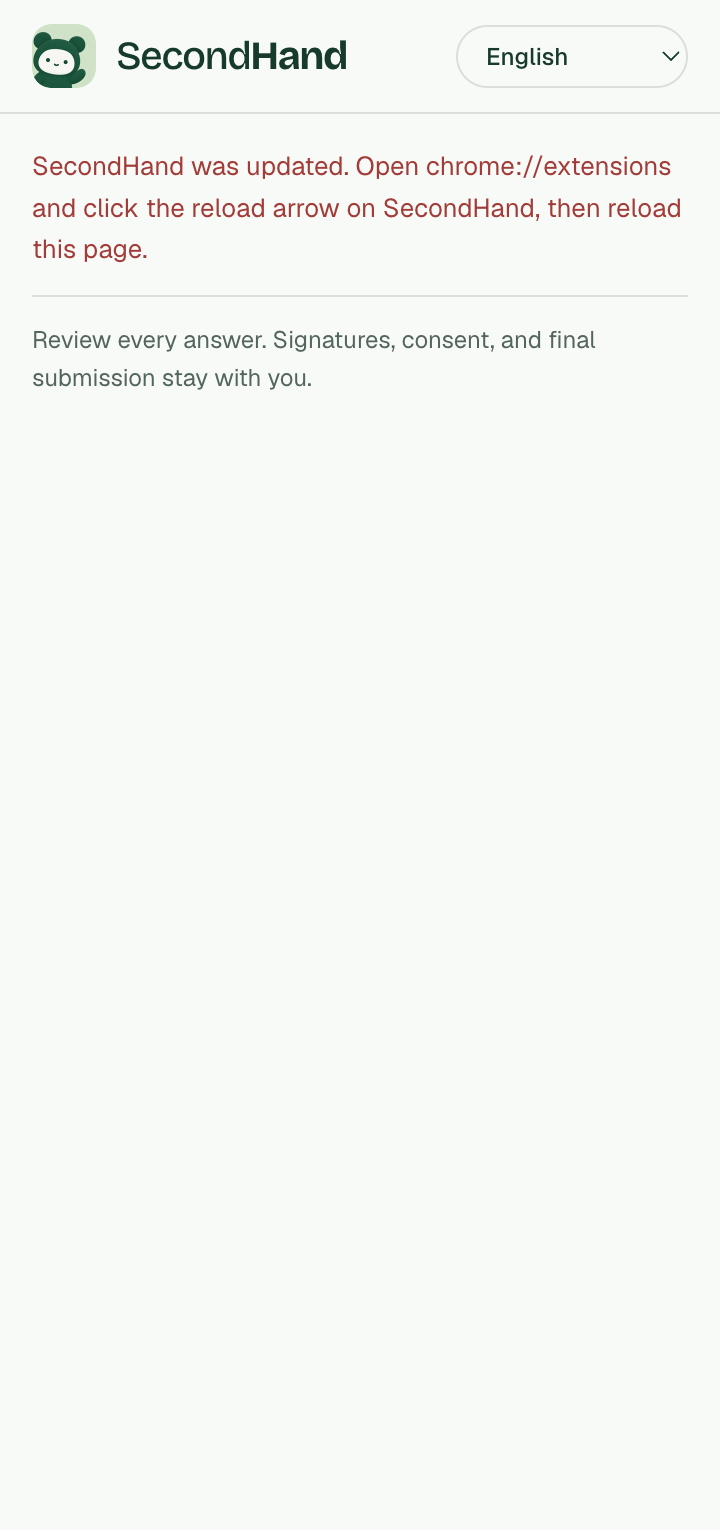
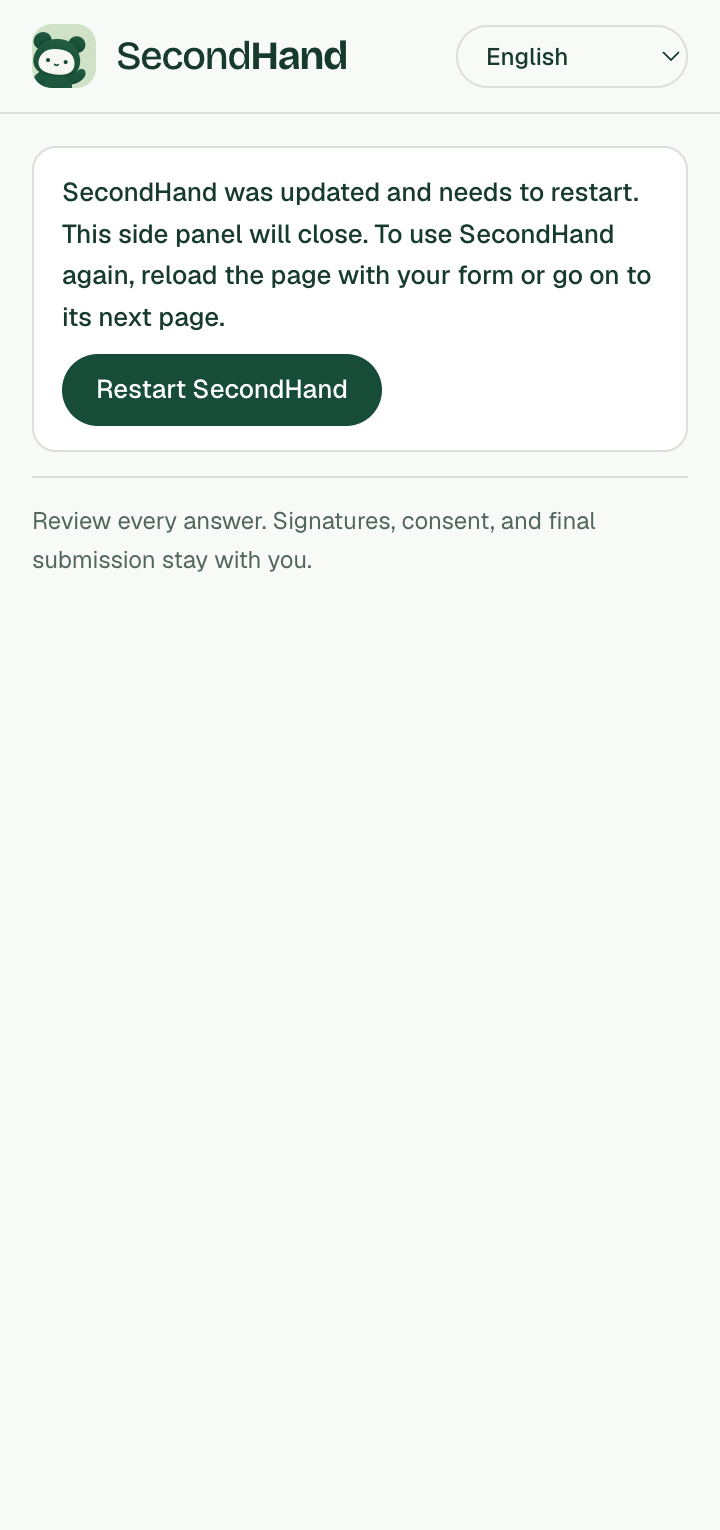
feat: give the update notice plain words and a Restart button
When the worker Chrome still runs is older than the pages, both surfaces
told people to open chrome://extensions and click the reload arrow, in red
in the side panel and in 11px print on the card. Now the side panel shows
a notice like the app's own, with a Restart SecondHand button, and the
card shows the logo, "SecondHand was updated." and Restart. Either button
reloads the extension, which is what the arrow did.

A card left on a page after SecondHand reloaded says "Reload this page to
use SecondHand. That clears what you typed here.", or only the first
sentence when its frame can't hold both. A worker that stops answering
while the side panel is open now leaves the same notice instead of a red
line that the next refresh replaced.

diff --git a/extension/strings.js b/extension/strings.js
@@ -45,11 +45,18 @@
     'widget.offer': 'View in English',
     'widget.offerTitle': 'Show this page’s questions in English in SecondHand’s side panel',
     'widget.languageCheckFailed': 'SecondHand couldn’t check this page’s language.',
+    'widget.outdated': 'SecondHand was updated.',
+    'widget.restart': 'Restart',
+    'widget.restartTitle': 'Restart SecondHand to finish its update. Then reload this page.',
 
-    // The widget shows these steps in the 46px frame it already has: in every language they must fit three lines of its 272px.
-    'panel.outdated': 'SecondHand was updated. Open chrome://extensions and click the reload arrow on SecondHand, then reload this page.',
+    // Pages newer than the worker Chrome still runs. The widget can't ask an outdated worker for a larger frame,
+    // so it shows widget.outdated beside its Restart button; the side panel has room for all of this.
+    'panel.outdated': 'SecondHand was updated and needs to restart. This side panel will close. To use SecondHand again, reload the page with your form or go on to its next page.',
     'panel.updated': 'SecondHand was updated to match the app on this computer.',
-    'panel.reloadPage': 'SecondHand was updated. Reload this page to use it.',
+    // A widget left on a page when SecondHand reloaded. It shows the short line when its frame can't hold the long one.
+    'panel.reloadPage': 'Reload this page to use SecondHand. That clears what you typed here.',
+    'panel.reloadPageShort': 'Reload this page to use SecondHand.',
+    'panel.restart': 'Restart SecondHand',
     'panel.updateFailed': 'SecondHand couldn’t update its extension files. In the SecondHand app, open Chrome extension and click Refresh extension files. Then open chrome://extensions and click the reload arrow on SecondHand.',
     'panel.updateElsewhere': 'Chrome is running a copy of SecondHand that the app doesn’t update. In the SecondHand app, open Chrome extension and click Copy folder path. Then, at chrome://extensions, remove this copy, choose Load unpacked, and pick that folder.',
     'panel.assistantUnavailable': 'The assistant is unavailable. Reload the extension and this page.',
@@ -368,10 +375,15 @@
     'widget.offer': 'Ver en español',
     'widget.offerTitle': 'Mostrar las preguntas de esta página en español en el panel lateral de SecondHand',
     'widget.languageCheckFailed': 'SecondHand no pudo comprobar el idioma de esta página.',
+    'widget.outdated': 'SecondHand se actualizó.',
+    'widget.restart': 'Reiniciar',
+    'widget.restartTitle': 'Reinicie SecondHand para terminar su actualización. Luego recargue esta página.',
 
-    'panel.outdated': 'SecondHand se actualizó. Abra chrome://extensions, haga clic en la flecha de recargar de SecondHand y recargue esta página.',
+    'panel.outdated': 'SecondHand se actualizó y necesita reiniciarse. Este panel lateral se cerrará. Para volver a usar SecondHand, recargue la página de su formulario o pase a la página siguiente.',
     'panel.updated': 'SecondHand se actualizó para coincidir con la aplicación de esta computadora.',
-    'panel.reloadPage': 'SecondHand se actualizó. Recargue esta página para usarlo.',
+    'panel.reloadPage': 'Recargue esta página para usar SecondHand. Eso borra lo que escribió aquí.',
+    'panel.reloadPageShort': 'Recargue esta página para usar SecondHand.',
+    'panel.restart': 'Reiniciar SecondHand',
     'panel.updateFailed': 'SecondHand no pudo actualizar los archivos de su extensión. En la aplicación SecondHand, abra “Chrome extension” y haga clic en “Refresh extension files”. Luego abra chrome://extensions y haga clic en la flecha de recargar de SecondHand.',
     'panel.updateElsewhere': 'Chrome está usando una copia de SecondHand que la aplicación no actualiza. En la aplicación SecondHand, abra “Chrome extension” y haga clic en “Copy folder path”. Luego, en chrome://extensions, quite esta copia, elija “Cargar descomprimida” y seleccione esa carpeta.',
     'panel.assistantUnavailable': 'El asistente no está disponible. Recargue la extensión y esta página.',
@@ -687,10 +699,15 @@
     'widget.offer': 'Xem bằng tiếng Việt',
     'widget.offerTitle': 'Hiển thị các câu hỏi của trang này bằng tiếng Việt trong bảng bên của SecondHand',
     'widget.languageCheckFailed': 'SecondHand không kiểm tra được ngôn ngữ của trang này.',
+    'widget.outdated': 'SecondHand đã được cập nhật.',
+    'widget.restart': 'Khởi động lại',
+    'widget.restartTitle': 'Khởi động lại SecondHand để hoàn tất cập nhật. Sau đó hãy tải lại trang này.',
 
-    'panel.outdated': 'SecondHand đã được cập nhật. Hãy mở chrome://extensions, bấm mũi tên tải lại trên SecondHand, rồi tải lại trang này.',
+    'panel.outdated': 'SecondHand đã được cập nhật và cần khởi động lại. Bảng bên này sẽ đóng. Để dùng lại SecondHand, hãy tải lại trang có biểu mẫu của bạn hoặc chuyển sang trang kế tiếp.',
     'panel.updated': 'SecondHand đã được cập nhật cho khớp với ứng dụng trên máy này.',
-    'panel.reloadPage': 'SecondHand đã được cập nhật. Hãy tải lại trang này để dùng.',
+    'panel.reloadPage': 'Hãy tải lại trang này để dùng SecondHand. Việc đó sẽ xóa những gì bạn đã nhập ở đây.',
+    'panel.reloadPageShort': 'Hãy tải lại trang này để dùng SecondHand.',
+    'panel.restart': 'Khởi động lại SecondHand',
     'panel.updateFailed': 'SecondHand không thể cập nhật các tệp tiện ích của mình. Trong ứng dụng SecondHand, hãy mở “Chrome extension” và bấm “Refresh extension files”. Sau đó mở chrome://extensions và bấm mũi tên tải lại trên SecondHand.',
     'panel.updateElsewhere': 'Chrome đang chạy một bản SecondHand mà ứng dụng không cập nhật. Trong ứng dụng SecondHand, hãy mở “Chrome extension” và bấm “Copy folder path”. Sau đó, tại chrome://extensions, hãy xóa bản này, chọn “Tải tiện ích đã giải nén” rồi chọn thư mục đó.',
     'panel.assistantUnavailable': 'Trợ lý hiện không khả dụng. Hãy tải lại tiện ích và trang này.',
@@ -1007,10 +1024,15 @@
     'widget.offer': '以中文查看',
     'widget.offerTitle': '在 SecondHand 侧边栏中用中文显示此页面的问题',
     'widget.languageCheckFailed': 'SecondHand 无法检查此页面的语言。',
+    'widget.outdated': 'SecondHand 已更新。',
+    'widget.restart': '重新启动',
+    'widget.restartTitle': '重新启动 SecondHand 以完成更新，然后重新加载此页面。',
 
-    'panel.outdated': 'SecondHand 已更新。请打开 chrome://extensions，点击 SecondHand 上的重新加载箭头，然后重新加载此页面。',
+    'panel.outdated': 'SecondHand 已更新，需要重新启动。此侧边栏将会关闭。要继续使用 SecondHand，请重新加载表格所在的页面，或进入它的下一页。',
     'panel.updated': 'SecondHand 已更新，与本机上的应用保持一致。',
-    'panel.reloadPage': 'SecondHand 已更新。请重新加载此页面后使用。',
+    'panel.reloadPage': '请重新加载此页面以使用 SecondHand。这会清除您在此页面输入的内容。',
+    'panel.reloadPageShort': '请重新加载此页面以使用 SecondHand。',
+    'panel.restart': '重新启动 SecondHand',
     'panel.updateFailed': 'SecondHand 无法更新其扩展程序文件。请在 SecondHand 应用中打开“Chrome extension”，点击“Refresh extension files”。然后打开 chrome://extensions，点击 SecondHand 上的重新加载箭头。',
     'panel.updateElsewhere': 'Chrome 正在运行一份应用不会更新的 SecondHand 副本。请在 SecondHand 应用中打开“Chrome extension”，点击“Copy folder path”。然后在 chrome://extensions 中移除这份副本，选择“加载已解压的扩展程序”，再选择该文件夹。',
     'panel.assistantUnavailable': '助手不可用。请重新加载扩展程序和此页面。',
@@ -1327,10 +1349,15 @@
     'widget.offer': 'Voir en français',
     'widget.offerTitle': 'Afficher les questions de cette page en français dans le panneau latéral de SecondHand',
     'widget.languageCheckFailed': 'SecondHand n’a pas pu vérifier la langue de cette page.',
+    'widget.outdated': 'SecondHand a été mis à jour.',
+    'widget.restart': 'Redémarrer',
+    'widget.restartTitle': 'Redémarrez SecondHand pour terminer sa mise à jour. Rechargez ensuite cette page.',
 
-    'panel.outdated': 'SecondHand a été mis à jour. Ouvrez chrome://extensions, cliquez sur sa flèche de rechargement, puis rechargez cette page.',
+    'panel.outdated': 'SecondHand a été mis à jour et doit redémarrer. Ce panneau latéral va se fermer. Pour utiliser de nouveau SecondHand, rechargez la page de votre formulaire ou passez à sa page suivante.',
     'panel.updated': 'SecondHand a été mis à jour pour correspondre à l’application de cet ordinateur.',
-    'panel.reloadPage': 'SecondHand a été mis à jour. Rechargez cette page pour l’utiliser.',
+    'panel.reloadPage': 'Rechargez cette page pour utiliser SecondHand. Cela efface ce que vous avez saisi ici.',
+    'panel.reloadPageShort': 'Rechargez cette page pour utiliser SecondHand.',
+    'panel.restart': 'Redémarrer SecondHand',
     'panel.updateFailed': 'SecondHand n’a pas pu mettre à jour les fichiers de son extension. Dans l’application SecondHand, ouvrez « Chrome extension » et cliquez sur « Refresh extension files ». Ouvrez ensuite chrome://extensions et cliquez sur la flèche de rechargement de SecondHand.',
     'panel.updateElsewhere': 'Chrome utilise une copie de SecondHand que l’application ne met pas à jour. Dans l’application SecondHand, ouvrez « Chrome extension » et cliquez sur « Copy folder path ». Ensuite, dans chrome://extensions, supprimez cette copie, choisissez « Charger l’extension non empaquetée » et sélectionnez ce dossier.',
     'panel.assistantUnavailable': 'L’assistant n’est pas disponible. Rechargez l’extension et cette page.',
@@ -1647,10 +1674,15 @@
     'widget.offer': 'العرض بالعربية',
     'widget.offerTitle': 'عرض أسئلة هذه الصفحة بالعربية في اللوحة الجانبية لـ SecondHand',
     'widget.languageCheckFailed': 'لم يتمكن SecondHand من معرفة لغة هذه الصفحة.',
+    'widget.outdated': 'تم تحديث SecondHand.',
+    'widget.restart': 'إعادة التشغيل',
+    'widget.restartTitle': 'أعد تشغيل SecondHand لإكمال تحديثه، ثم أعد تحميل هذه الصفحة.',
 
-    'panel.outdated': 'تم تحديث SecondHand. افتح chrome://extensions وانقر على سهم إعادة التحميل في SecondHand، ثم أعد تحميل هذه الصفحة.',
+    'panel.outdated': 'تم تحديث SecondHand ويحتاج إلى إعادة التشغيل. ستُغلق هذه اللوحة الجانبية. لاستخدام SecondHand من جديد، أعد تحميل صفحة النموذج أو انتقل إلى صفحتها التالية.',
     'panel.updated': 'تم تحديث SecondHand ليطابق التطبيق على هذا الكمبيوتر.',
-    'panel.reloadPage': 'تم تحديث SecondHand. أعد تحميل هذه الصفحة لاستخدامه.',
+    'panel.reloadPage': 'أعد تحميل هذه الصفحة لاستخدام SecondHand. سيمسح ذلك ما كتبته هنا.',
+    'panel.reloadPageShort': 'أعد تحميل هذه الصفحة لاستخدام SecondHand.',
+    'panel.restart': 'إعادة تشغيل SecondHand',
     'panel.updateFailed': 'تعذّر على SecondHand تحديث ملفات إضافته. في تطبيق SecondHand، افتح “Chrome extension” وانقر على “Refresh extension files”. ثم افتح chrome://extensions وانقر على سهم إعادة التحميل في SecondHand.',
     'panel.updateElsewhere': 'يشغّل Chrome نسخة من SecondHand لا يحدّثها التطبيق. في تطبيق SecondHand، افتح “Chrome extension” وانقر على “Copy folder path”. ثم في chrome://extensions، أزل هذه النسخة واختر “تحميل الإضافة غير المضغوطة” وحدد ذلك المجلد.',
     'panel.assistantUnavailable': 'المساعد غير متاح. أعد تحميل الإضافة وهذه الصفحة.',

diff --git a/extension/panel.js b/extension/panel.js
@@ -23,7 +23,7 @@
   const keyedError = (key, params = {}) => Object.assign(new Error(strings.english(key, params)), { messageKey: key, messageParams: params });
   const trusted = callback => event => { if (event.isTrusted) return callback(event); };
   const outdatedError = (key = 'panel.outdated') => Object.assign(keyedError(key), { outdated: true });
-  const send = async payload => {
+  const ask = async payload => {
     let response;
     try { response = await chrome.runtime.sendMessage(payload); }
     catch (error) {
@@ -40,6 +40,12 @@
       throw keyedError('panel.assistantUnavailable');
     }
     return response.data;
+  };
+  // What a surface does the moment the worker turns out to be outdated; the side panel sets it.
+  let whenOutdated = () => {};
+  const send = async payload => {
+    try { return await ask(payload); }
+    catch (error) { if (error.outdated) whenOutdated(error); throw error; }
   };
   // An older worker that still answers is caught by its build.
   const checkBuild = async () => { if ((await send({ type: 'ui:ping' }))?.build !== BUILD) throw outdatedError(); };
@@ -92,7 +98,8 @@
     let outdated = false;
     // The reader hid the card: only the logo shows, until they click it or the page changes.
     let collapsed = false;
-    // What an outdated widget says: reload SecondHand, or reload this page after SecondHand updated itself.
+    // Why the widget is outdated: its worker is older than this page (panel.outdated), which Restart
+    // fixes, or SecondHand reloaded and left this frame behind (panel.reloadPage).
     let outdatedKey = 'panel.outdated';
     let ai = { note: null, reason: '' };
     let cursor = 0;
@@ -105,11 +112,11 @@
     // widget's own width and height (0 until it has measured itself), and whether it is only the logo.
     let frame = { line: false, width: 0, height: 0, pill: false };
     const AI_TIMEOUT_MS = 8000;
-    // An outdated worker keeps its reload steps on screen and is not polled again.
+    // An outdated worker keeps its notice on screen and is not polled again.
     const trouble = error => { if (error.outdated) { outdated = true; outdatedKey = error.messageKey; } return problem(error); };
 
     function statusText() {
-      if (outdated) return t(outdatedKey);
+      if (outdated) return t(outdatedKey === 'panel.reloadPage' ? 'panel.reloadPage' : 'widget.outdated');
       if (working) return t('widget.working');
       if (note) return words(note, 120);
       if (!result) return !site ? t('widget.iowaReady') : languageTrouble ? t('widget.languageCheckFailed') : t('widget.siteReady', { host: hostOf(site.origin) });
@@ -140,10 +147,12 @@
       // A locked app offers Unlock, and a closed one Open SecondHand, in Autofill's place.
       const locked = result?.state === 'locked';
       const closed = result?.state === 'offline';
-      $('stop').hidden = !autopilot;
-      $('autofill').hidden = autopilot || locked || closed;
-      $('unlock').hidden = autopilot || !locked;
-      $('open-app').hidden = autopilot || !closed;
+      $('stop').hidden = outdated || !autopilot;
+      $('autofill').hidden = outdated || autopilot || locked || closed;
+      $('unlock').hidden = outdated || autopilot || !locked;
+      $('open-app').hidden = outdated || autopilot || !closed;
+      $('restart').hidden = !outdated || outdatedKey === 'panel.reloadPage';
+      $('hide').hidden = outdated;
       $('autofill').disabled = working;
       // Answers still to give show as a link that finds each one in the form.
       const needYou = ['done', 'waiting'].includes(result?.state) ? fieldKeys(result.needYou) : [];
@@ -152,7 +161,7 @@
       $('widget-text').textContent = statusText();
       $('autofill').title = site ? t('widget.autofillSiteTitle') : t('widget.autofillIowaTitle');
       const details = [hasMessage(result) ? words(fromResult(result)) : '', ai.note ? words(ai.note) : '', ai.reason, fixedText(languageTrouble?.message, 160)];
-      $('widget-text').title = outdated ? t(outdatedKey) : fixedText(details.filter(Boolean).join(' '), 240);
+      $('widget-text').title = outdated ? statusText() : fixedText(details.filter(Boolean).join(' '), 240);
       // The status is always read to screen readers, and shown as a line whenever it says something the
       // buttons don't: on Iowa, what Autofill will do before it is clicked; then what it did and what it
       // waits for; a problem; an outdated extension. Unlock and Open SecondHand say their own step, and
@@ -161,8 +170,11 @@
       $('widget-text').classList.toggle('visually-hidden', !message);
       // The translated view is offered until Autofill has something to report.
       $('translate-offer').hidden = outdated || Boolean(note) || working || Boolean(result) || !known || !pageLanguage || pageLanguage === language;
+      // A frame left behind can't grow: when it can't hold the whole line, the short one says what to do.
+      // Letters overhang their line by a pixel or so; a line cut off is 14px more.
+      if (outdated && outdatedKey === 'panel.reloadPage' && $('widget-text').scrollHeight - $('widget-text').clientHeight > 7) $('widget-text').textContent = t('panel.reloadPageShort');
       // The widget is as wide and as tall as what it shows, up to 272px by 130px (see panel.css). An outdated
-      // worker is not asked for anything more; its steps fill the frame the widget already has.
+      // worker is not asked for anything more; its notice fills the frame the widget already has.
       const room = message || !$('translate-offer').hidden;
       const box = outdated || $('widget').hidden ? null : $('widget').getBoundingClientRect();
       const width = box ? Math.ceil(box.width) || 0 : frame.width;
@@ -285,6 +297,9 @@
         send({ type: 'ui:openPanel', confirmed: true }).catch(error => { note = trouble(error); render(); });
       }));
     }
+    // Restart reloads SecondHand, which starts the worker that matches this page. This frame is then left
+    // behind, like any page open during an update, so it says at once how to get SecondHand back here.
+    $('restart').addEventListener('click', trusted(() => { outdatedKey = 'panel.reloadPage'; render(); chrome.runtime.reload(); }));
     // Hiding is the reader's choice for this page only: nothing is saved, and the next page shows the card again.
     $('hide').addEventListener('click', trusted(() => { collapsed = true; render(); $('pill').focus(); }));
     // The offer opens the side panel straight on the page's questions.
@@ -334,7 +349,7 @@
     let desktopLine = null;
     // What the desktop row's button does: open a closed app, or bring a locked one forward to unlock.
     let desktopAction = null;
-    const ACTIONS = { open: 'desktop.open', unlock: 'panel.unlock' };
+    const ACTIONS = { open: 'desktop.open', unlock: 'panel.unlock', restart: 'panel.restart' };
     // While SecondHand opens, the panel checks about once a second for about 20 seconds.
     let opening = false;
     let desktopRun = 0;
@@ -369,8 +384,10 @@
     let summaryRun = 0;
     const SCREENS = { 'iowa-before-start': 'summary.iowaBeforeStart', 'iowa-information': 'summary.iowaInformation', 'iowa-instructions': 'summary.iowaInstructions' };
     const STATUS = { complete: 'checklist.complete', missing: 'checklist.missing', optional: 'checklist.optional', manual: 'checklist.manual' };
+    // An outdated worker ends the panel's work: its notice and Restart button stay, and nothing more is said or asked.
+    let halted = false;
     // A message, or null for nothing to say.
-    const show = (message, error = false) => { status = { message, error }; renderStatus(); };
+    const show = (message, error = false) => { if (halted) return; status = { message, error }; renderStatus(); };
     // A closed app is said once, by the desktop row and its Open SecondHand button, not again under Autofill.
     const reported = result => hasMessage(result) && result.state !== 'offline';
     function renderStatus() {
@@ -579,6 +596,7 @@
     }
     // The desktop row for the status the worker read: closed, locked, or unlocked.
     function showDesktop(desktop) {
+      if (halted) return;
       allSites = typeof desktop?.allSites === 'boolean' ? desktop.allSites : null;
       updateSteps = Object.hasOwn(UPDATE_STEPS, desktop?.update) ? UPDATE_STEPS[desktop.update] : null;
       desktopLine = !desktop?.connected ? { key: 'desktop.notRunning' } : desktop.unlocked ? null : { key: 'desktop.locked' };
@@ -587,6 +605,7 @@
       $('desktop-status').parentElement.classList.remove('error');
     }
     function desktopProblem(message) {
+      if (halted) return;
       desktopLine = message; layaLine = null; desktopAction = null;
       $('desktop-status').parentElement.classList.add('error');
     }
@@ -948,6 +967,8 @@
       if (result && !result.enabled) show({ key: 'panel.siteOffDone' });
     }));
     $('desktop-action').addEventListener('click', trusted(async () => {
+      // Reloading SecondHand closes this side panel and starts the worker that matches it.
+      if (desktopAction === 'restart') { chrome.runtime.reload(); return; }
       if (desktopAction === 'open') return openApp();
       try { await send({ type: 'ui:showApp', confirmed: true }); desktopLine = { key: 'desktop.unlockThenAutofill' }; }
       catch (error) { desktopLine = problem(error); }
@@ -974,7 +995,16 @@
       relabel();
     });
     followLanguage(relabel);
-    // An outdated worker stops the panel with its reload steps on screen.
+    function halt(error) {
+      if (halted) return;
+      show(null);
+      halted = true; stopped = true; target = null; nowhere = true; notice = null; updateSteps = null; updated = false;
+      clearTimeout(pollTimer); clearPage(); controls();
+      desktopLine = problem(error); layaLine = null; desktopAction = error.messageKey === 'panel.outdated' ? 'restart' : null;
+      $('desktop-status').parentElement.classList.remove('error');
+      renderDesktop();
+    }
+    whenOutdated = halt;
     async function start() {
       try {
         await checkBuild();
@@ -985,11 +1015,7 @@
         localStorage.setItem(BUILD_KEY, BUILD);
         renderDesktop();
       } catch (error) {
-        if (error.outdated) {
-          stopped = true; target = null; nowhere = true; clearPage(); controls(); show(problem(error), true);
-          $('desktop-status').parentElement.hidden = true;
-          return;
-        }
+        if (error.outdated) { halt(error); return; }
         show(problem(error), true);
       }
       refresh().then(desktopStatus);

diff --git a/extension/panel.css b/extension/panel.css
@@ -18,7 +18,7 @@ button,select{font:inherit;color:inherit;cursor:pointer;-webkit-tap-highlight-co
 .text-button{display:flex;align-items:center;width:fit-content;min-height:32px;margin-bottom:4px;padding:0;border:0;background:none;font-weight:500;text-align:start;text-decoration:underline;text-underline-offset:4px}.text-button:hover:enabled{text-decoration-thickness:2px}
 /* On-page widget: an extension iframe the page cannot script. It is as tall as what it holds, 46px for its row alone,
    and asks for a frame that size; the row sits at the bottom, so its button stays where it was when a line comes or goes. */
-body.launcher-surface{background:none}#launcher{width:100%;height:100%;display:flex;align-items:flex-end;justify-content:center}#widget{width:max-content;max-width:272px;margin-inline-start:auto}#widget.outdated{width:100%;height:100%}
+body.launcher-surface{background:none}#launcher{width:100%;height:100%;display:flex;align-items:flex-end;justify-content:center}#widget{width:max-content;max-width:272px;margin-inline-start:auto}
 .widget{display:flex;flex-direction:column;justify-content:center;gap:4px;padding:6px 8px;background:#fff;border:1px solid var(--border);border-radius:12px}.widget .brand{width:30px;height:30px}.widget-logo{display:flex;flex:none;margin-inline-end:auto;padding:0;border:0;border-radius:30%;background:none}
 .widget-row{display:flex;align-items:center;gap:8px;min-width:0}
 .widget-primary{flex:none;height:32px;padding:0 14px;border:0;border-radius:100px;background:var(--primary);color:#fff;font-weight:500;white-space:nowrap}.widget-primary:hover:enabled{background:var(--pressed)}
@@ -26,8 +26,10 @@ body.launcher-surface{background:none}#launcher{width:100%;height:100%;display:f
 #widget-text{font-size:12px;line-height:15px;min-width:0;overflow:hidden;display:-webkit-box;-webkit-box-orient:vertical;-webkit-line-clamp:4}
 /* A line to read widens the widget to its 272px. Four lines of it and the translation offer make the widget 129px tall; its frame allows 130px. */
 #widget-text:not(.visually-hidden){width:max-content;max-width:254px}
-/* An outdated worker: only the reload steps, with room for all of them in the frame the widget already has. */
-.widget.outdated .widget-row{display:none}.widget.outdated{padding:0 8px}.widget.outdated #widget-text{font-size:11px;line-height:14px;-webkit-line-clamp:3}
+/* An outdated worker can't be asked for another frame, so one row fills the frame the widget already has:
+   the logo, up to three lines of what happened, and a button when one helps. */
+#widget.outdated{width:100%;height:100%;flex-direction:row;align-items:center;gap:8px;padding:0 8px}.widget.outdated .widget-row{display:contents}.widget.outdated .widget-logo{order:-1;margin:0}
+.widget.outdated #widget-text{flex:1;width:auto;max-width:none;line-height:14px;-webkit-line-clamp:3}
 /* Hiding the card leaves the logo in the page's corner, where a click brings the card back. */
 .widget-hide{display:flex;flex:none;align-items:center;justify-content:center;width:24px;height:24px;margin-inline:-2px -4px;padding:0;border:0;border-radius:50%;background:none;color:var(--muted-foreground)}.widget-hide:hover{background:var(--muted);color:var(--foreground)}.widget-hide svg{width:12px;height:12px;fill:none;stroke:currentColor;stroke-width:2.5;stroke-linecap:round}
 .pill{width:46px;height:46px;flex:none;padding:0;border:1px solid var(--border);border-radius:50%;background:#fff;display:flex;align-items:center;justify-content:center}.pill .brand{width:30px;height:30px}

diff --git a/extension/panel.html b/extension/panel.html
@@ -26,6 +26,7 @@
         <button id="unlock" class="widget-primary" type="button" data-i18n="widget.unlock" hidden></button>
         <button id="open-app" class="widget-primary" type="button" data-i18n="desktop.open" hidden></button>
         <button id="stop" class="widget-primary" type="button" data-i18n="widget.stop" data-i18n-title="widget.stopTitle" hidden></button>
+        <button id="restart" class="widget-primary" type="button" data-i18n="widget.restart" data-i18n-title="widget.restartTitle" hidden></button>
         <button id="hide" class="widget-hide" type="button" data-i18n-title="widget.hideTitle" data-i18n-aria-label="widget.hideTitle"><svg viewBox="0 0 24 24" aria-hidden="true"><path d="M6 6l12 12M18 6 6 18"/></svg></button>
       </div>
     </div>
